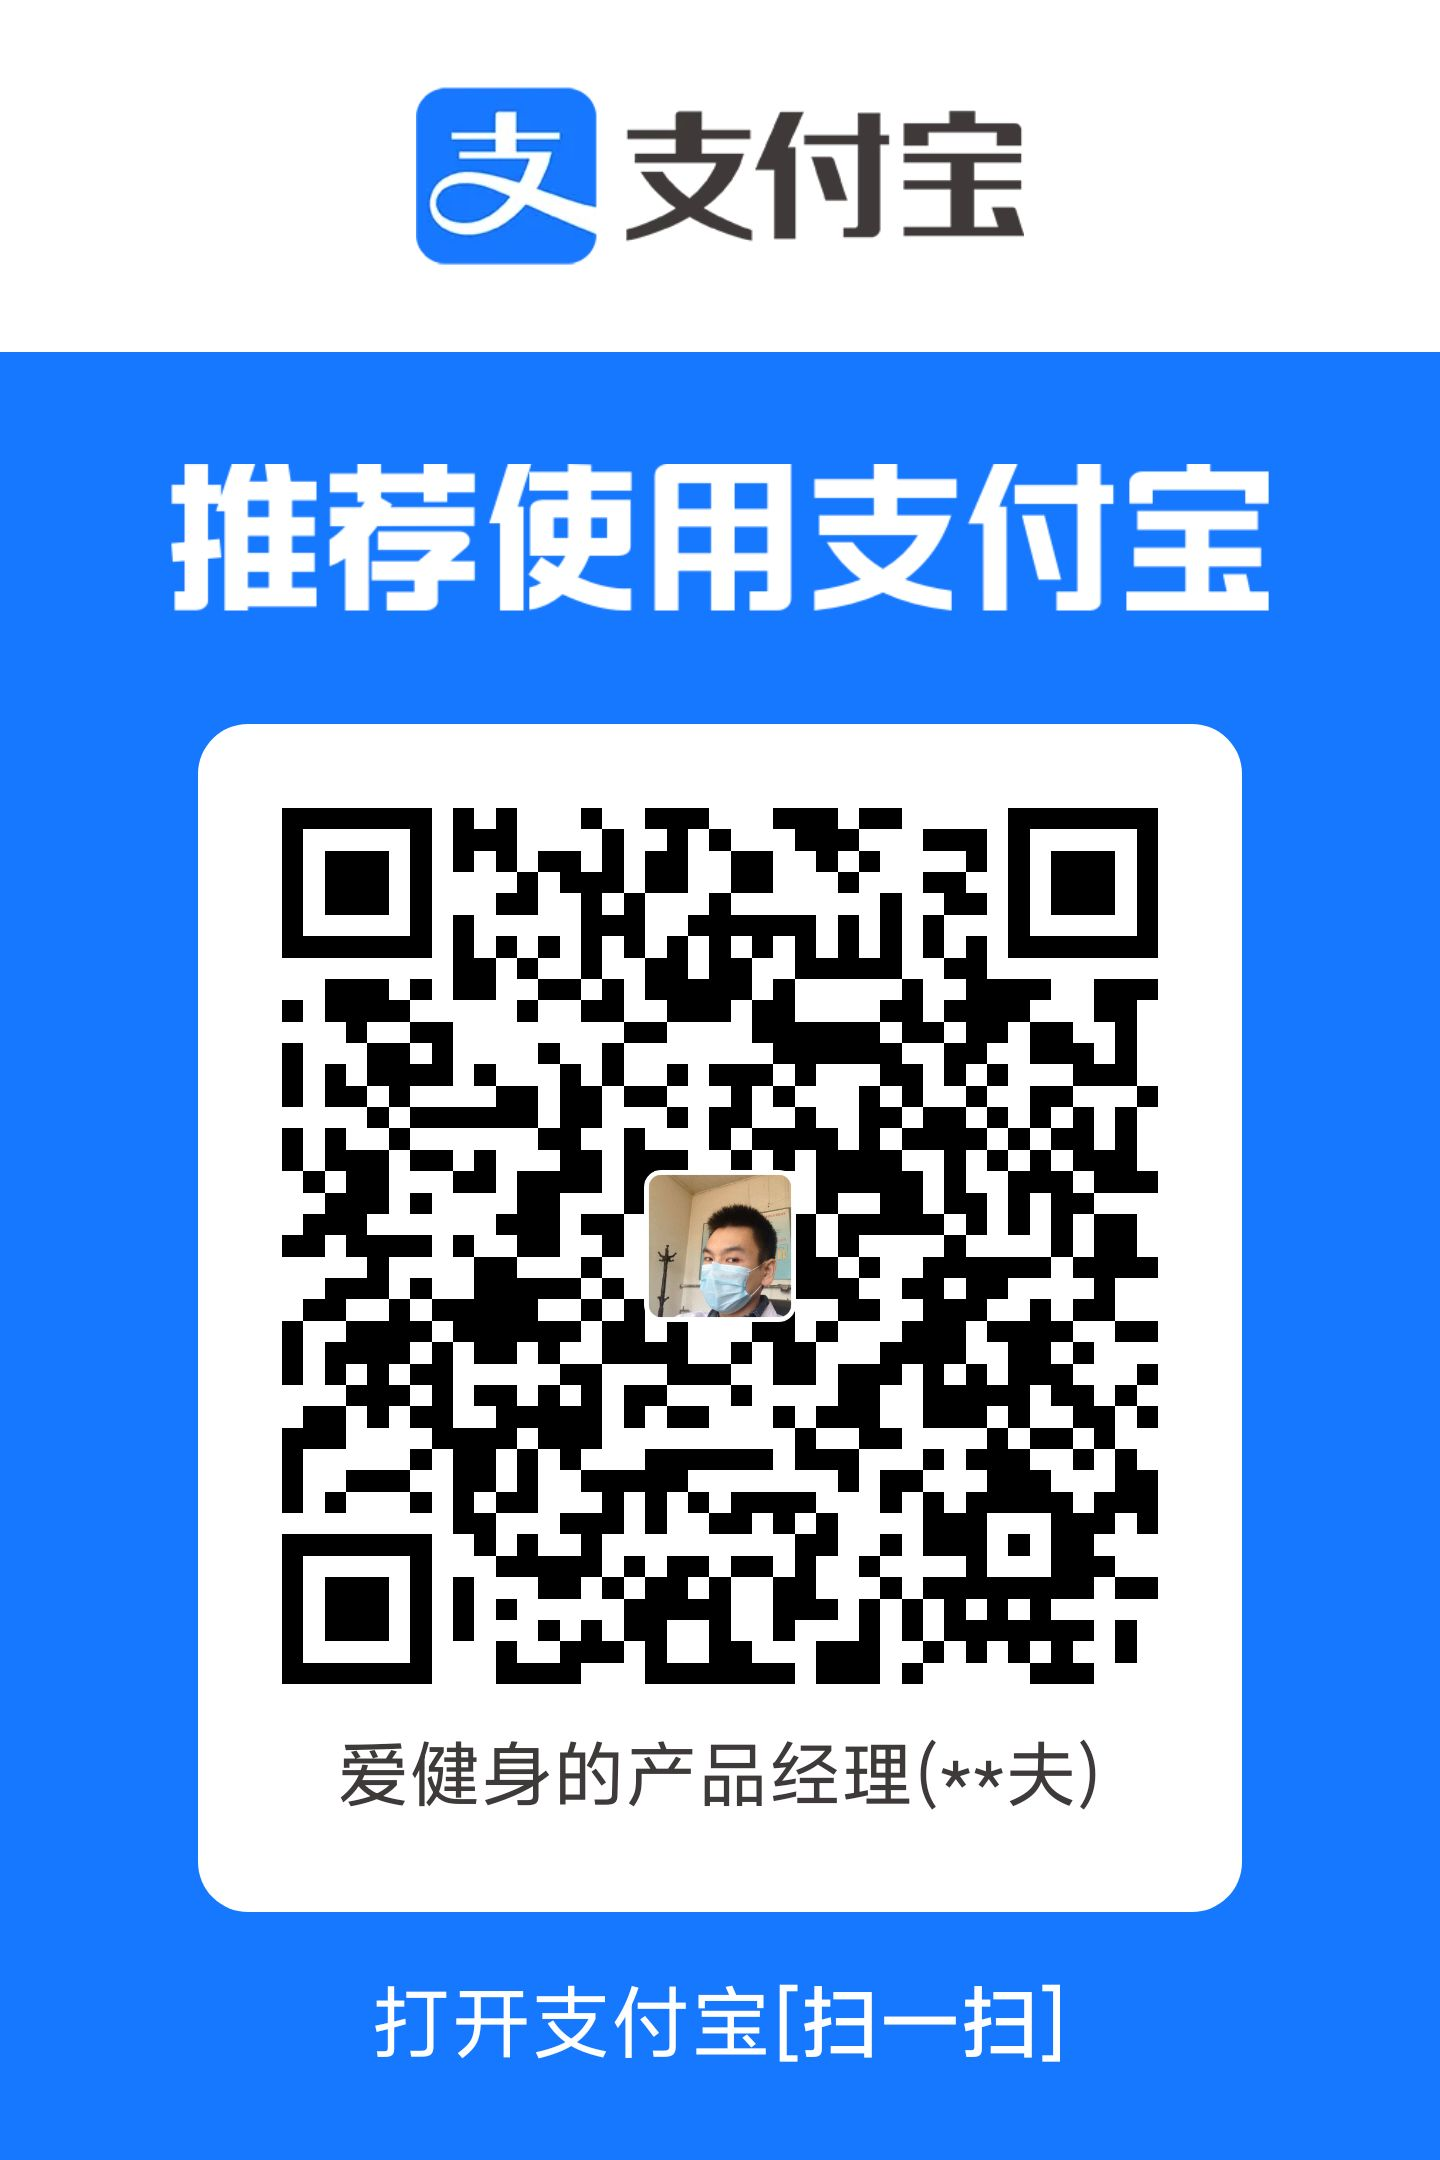
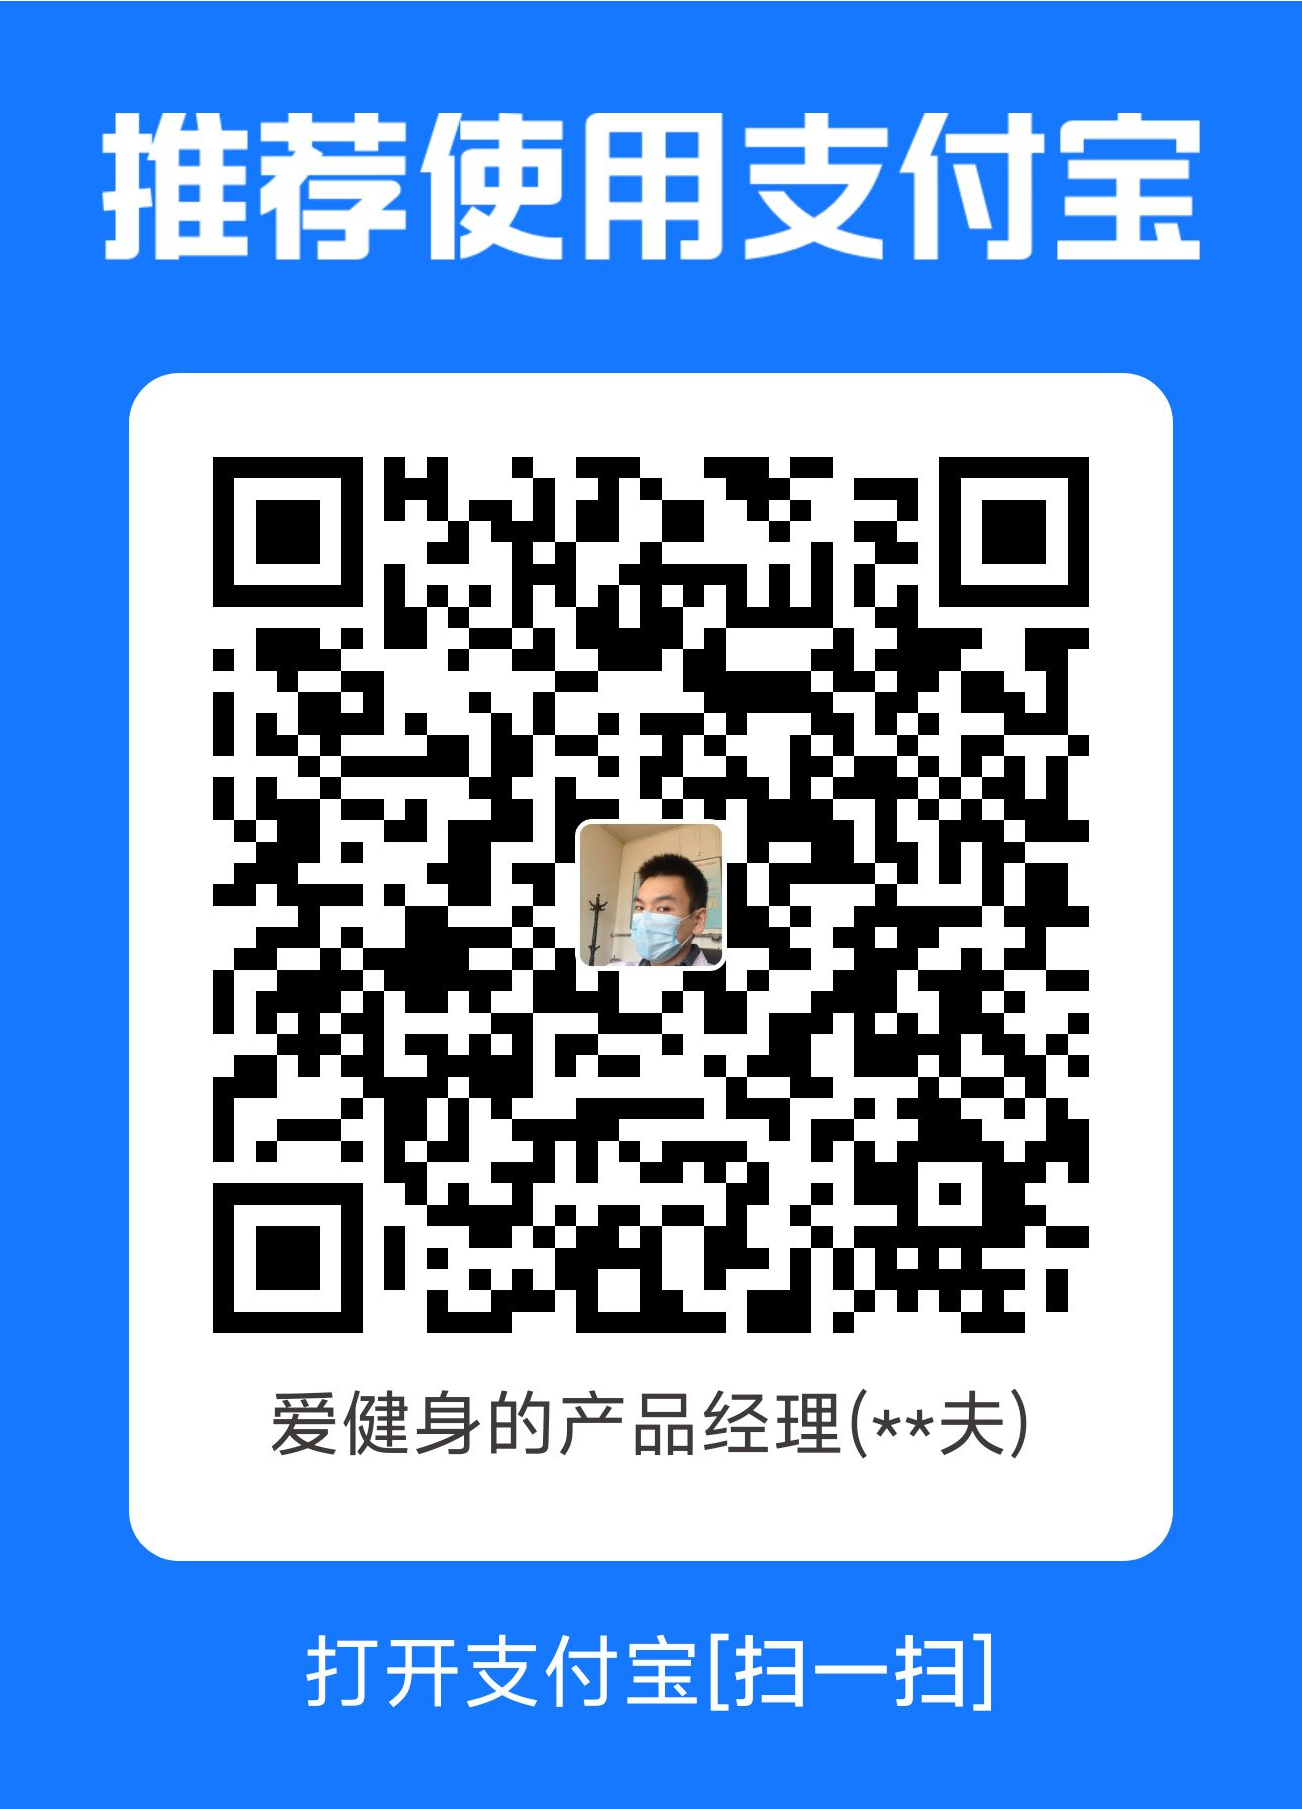
v1.0.8: 收款码剪裁统一比例 0.72（微信裁底部logo行/白边，支付宝裁顶部logo行/白边），容器 aspect-ratio 对齐 0.72

diff --git a/options.html b/options.html
@@ -98,7 +98,7 @@
     /* 捐赠码：统一宽高比，图片等比缩放居中，宽窄图视觉对齐不变形 */
     .qr-frame {
       width: 200px;
-      aspect-ratio: 3 / 4;
+      aspect-ratio: 0.72;
       border: 1px solid var(--border);
       border-radius: 8px;
       background: var(--bg);
